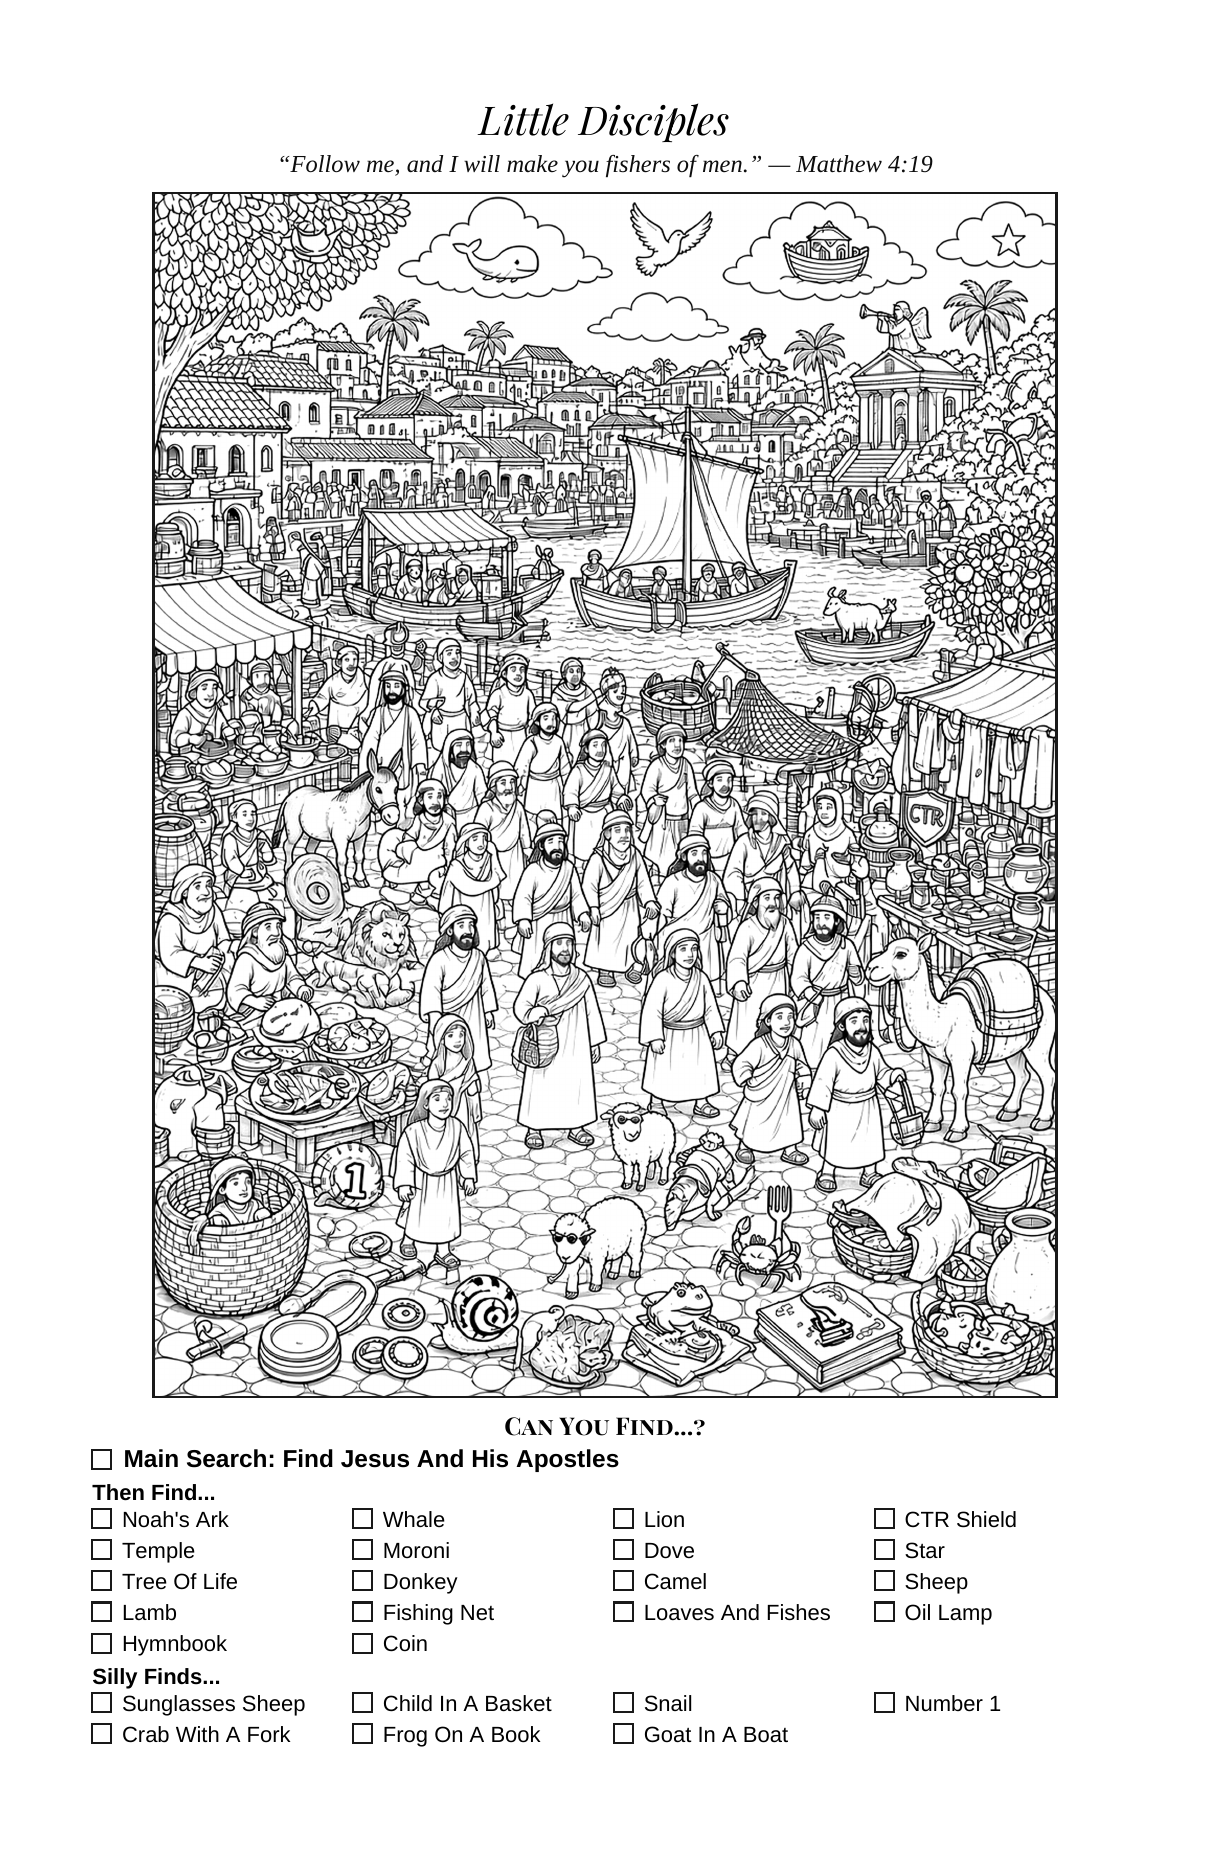
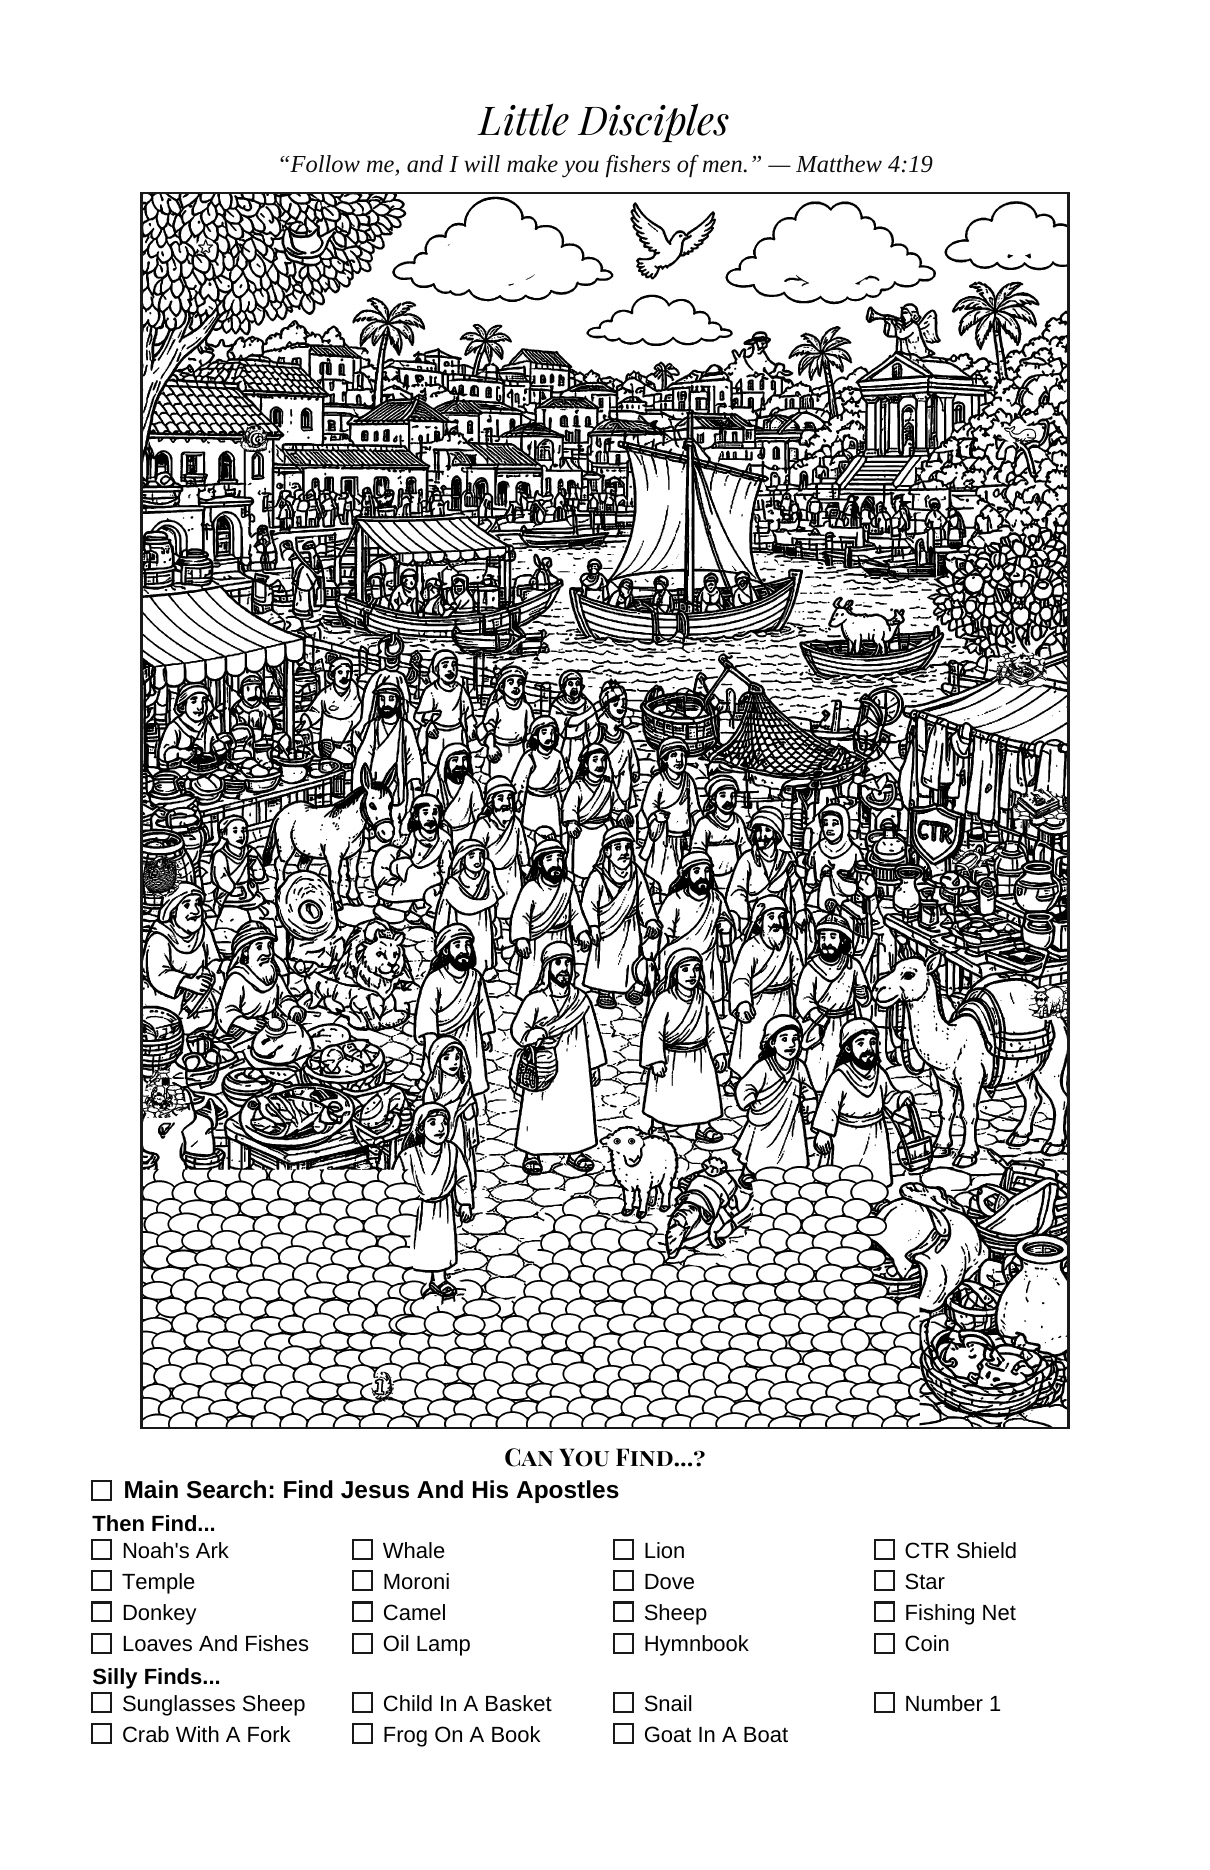
This Sunday: Nov 15 chorister Traci Harward and organist Karen Bitton
Last-minute music change approved by Adam. The program order now includes the hymns and places the Ward Choir number between the speakers. Kids page image refreshed.

diff --git a/this-sunday/index.html b/this-sunday/index.html
@@ -35,8 +35,8 @@ footer{text-align:center;color:var(--soft);font-size:11.5px;padding:8px 20px 36p
 <div class="meta">12:00 PM · Stake Center chapel (Eagle Shore building)</div></header>
 <main>
 <div class="lead"><div><span>Presiding</span><b>Bishop Drommond</b></div><div><span>Conducting</span><b>Bishop Drommond</b></div>
-<div><span>Chorister</span><b></b></div><div><span>Organist</span><b></b></div></div>
-<details open><summary><span>Program<sup class="ast" aria-hidden="true">*</sup></span></summary><div class="in"><p class="upd sec"><span aria-hidden="true">* </span>Updates Saturday evening for Sunday’s sacrament meeting.</p><ol class="order"><li class=""><span class="lab">Invocation</span><span class="val">Tess Peterson</span></li><li class=""><span class="lab">Ward and Stake Business</span></li><li class="div"><span>Administration of the Sacrament</span></li><li class=""><span class="lab">Speaker</span><span class="val">Ashley Rogers</span></li><li class=""><span class="lab">Speaker</span><span class="val">Michael Kennard</span></li><li class=""><span class="lab">Benediction</span><span class="val">Sarah Robinette</span></li></ol><p class="note">Tap a hymn to open it in the Church’s music library.</p></div></details>
+<div><span>Chorister</span><b>Traci Harward</b></div><div><span>Organist</span><b>Karen Bitton</b></div></div>
+<details open><summary><span>Program<sup class="ast" aria-hidden="true">*</sup></span></summary><div class="in"><p class="upd sec"><span aria-hidden="true">* </span>Updates Saturday evening for Sunday’s sacrament meeting.</p><ol class="order"><li class="hy"><span class="lab">Opening Hymn</span><span class="val"><a href="https://www.churchofjesuschrist.org/media/music/songs/let-us-oft-speak-kind-words?lang=eng" rel="noopener"><span class="num">232</span> Let Us Oft Speak Kind Words <span class="ext">♪</span></a></span></li><li class=""><span class="lab">Invocation</span><span class="val">Tess Peterson</span></li><li class=""><span class="lab">Ward and Stake Business</span></li><li class="hy"><span class="lab">Sacrament Hymn</span><span class="val"><a href="https://www.churchofjesuschrist.org/media/music/songs/he-died-the-great-redeemer-died?lang=eng" rel="noopener"><span class="num">192</span> He Died! The Great Redeemer Died <span class="ext">♪</span></a></span></li><li class="div"><span>Administration of the Sacrament</span></li><li class=""><span class="lab">Speaker</span><span class="val">Ashley Rogers</span></li><li class=""><span class="lab">Musical Number</span><span class="val">#140 — Did You Think to Pray? (Ward Choir, Brandon John)</span></li><li class=""><span class="lab">Speaker</span><span class="val">Michael Kennard</span></li><li class="hy"><span class="lab">Closing Hymn</span><span class="val"><a href="https://www.churchofjesuschrist.org/media/music/songs/home-can-be-a-heaven-on-earth?lang=eng" rel="noopener"><span class="num">298</span> Home Can Be a Heaven on Earth <span class="ext">♪</span></a></span></li><li class=""><span class="lab">Benediction</span><span class="val">Sarah Robinette</span></li></ol><p class="note">Tap a hymn to open it in the Church’s music library.</p></div></details>
 <details open><summary><span>Announcements<sup class="ast" aria-hidden="true">*</sup></span></summary><div class="in"><p class="upd sec"><span aria-hidden="true">* </span>Updates Saturday evening for Sunday’s sacrament meeting.</p><ul class="list"><li><span class="when">Sun, Nov 15</span><div><b>Family Search Invitations</b><span>November: log into FamilySearch and see what's new. Monthly ideas at helpgatherisrael.org and the Bay 6 Hub (Temple and Family History section).</span></div><div><b>Ward Choir Practice</b><span>2:15 PM, Chapel; every Sunday through Dec 13. Come sing about Jesus with us!</span></div><div><b>Elder Gilbert Sunday Devotional</b><span>all YSA, 6:00–7:00 PM, Ogden Tabernacle, 2145 Washington Blvd; doors open at 5:00 PM</span></div></li><li><b>Journey Through Bethlehem</b><span class="when">Sat, Dec 5</span><span>Neighborhood Christmas Celebration, Saturday, Dec 5, 10:00–11:30 AM, Stake Center (549 S 1525 W, Farmington). See the flyer on the Bay 6 Hub for details.</span></li><li><b>Stake Mission Prep</b><span class="when">Sundays</span><span>3:45–4:45 PM, Stake Center, sophomores–seniors</span></li><li><b>Central Davis Jr. SNAP (Special Needs Activity Program)</b><span class="when">Mondays</span><span>4:30–5:45 pm when school is in session, 1282 West 1875 North, Farmington</span></li><li><b>Centerville Employment Resource Center</b><span class="when">Wednesdays</span><span>now open Wednesday evenings until 7 pm</span></li></ul><a class="btn" href="../events/">See all Upcoming Events</a></div></details>
 <details open><summary><span>Little Disciples<sup class="ast" aria-hidden="true">*</sup></span></summary><div class="in"><p class="upd sec"><span aria-hidden="true">* </span>Updates Saturday evening for Sunday’s sacrament meeting.</p><p class="note">A page for children. Think about Jesus as you solve each puzzle.</p>
 <ol class='steps'><li>With your family, tell the story of Shadrach, Meshach, and Abed-nego in the fiery furnace, or of Daniel in the lions’ den. How did Jesus help them do what is right when it was hard? (Daniel 3; 6)</li><li>Daniel prayed three times a day, even when it was against the law (Daniel 6:10). Draw a picture of yourself praying, and tell your family why prayer helps you follow Jesus Christ.</li></ol>

diff --git a/index.html b/index.html
@@ -156,7 +156,7 @@
 </header>
 <main>
   <!--TS--><a class="ts" href="this-sunday/"><svg class="badge" viewBox="0 0 120 120" role="img" aria-label="The Christus"><circle cx="60" cy="60" r="57" fill="#005175"/><circle cx="60" cy="60" r="51" fill="none" stroke="#c9a24a" stroke-width="2"/><path d="M73.97 103.37 L47.82 103.36 L49.09 101.64 L49.61 100.06 L49.83 97.91 L49.54 95.33 L49.83 91.46 L49.65 88.74 L50.35 81.71 L49.85 79.56 L50.72 77.13 L50.49 73.11 L50.04 72.63 L48.32 72.32 L46.76 71.54 L45.55 70.39 L44.30 68.61 L43.07 65.95 L42.34 63.65 L41.82 61.07 L41.52 57.49 L41.15 56.87 L40.44 56.95 L36.85 59.56 L33.84 60.32 L31.40 61.57 L30.83 61.47 L30.49 61.07 L30.40 59.27 L29.25 59.03 L29.25 58.49 L31.99 56.63 L32.55 55.33 L33.27 55.16 L36.85 55.25 L37.48 54.77 L38.66 53.19 L40.00 50.70 L42.45 47.03 L46.74 37.03 L47.75 35.09 L49.71 32.26 L52.86 30.11 L54.40 28.11 L54.88 26.82 L55.15 23.66 L56.01 20.22 L56.92 18.82 L58.56 17.50 L62.09 17.50 L63.56 18.65 L64.23 19.46 L64.99 21.37 L65.87 25.96 L66.38 27.61 L67.95 29.55 L70.55 31.40 L72.50 33.70 L74.69 39.01 L79.97 48.75 L82.05 53.76 L83.00 54.38 L85.01 54.36 L87.02 54.71 L89.45 56.18 L90.60 57.17 L90.60 58.06 L90.17 58.49 L89.88 59.50 L88.74 60.22 L88.17 60.20 L86.73 59.37 L85.59 59.05 L82.72 58.60 L82.29 58.76 L82.10 59.07 L82.64 71.11 L82.49 72.83 L81.91 74.98 L81.80 77.41 L82.37 88.59 L82.22 93.18 L81.72 94.19 L81.14 94.41 L80.57 94.27 L78.90 92.89 L78.24 91.03 L77.87 90.60 L75.41 89.56 L72.69 87.90 L72.25 87.84 L71.83 88.11 L71.58 88.74 L71.47 90.17 L71.82 98.48 L72.38 100.78 L73.89 102.93 L73.97 103.37Z" fill="#f3d98b" fill-rule="evenodd" stroke="#f3d98b" stroke-width="0.6" stroke-linejoin="round"/></svg><span class="ts-k"><span class="ts-label">This Sunday</span><span class="ast" aria-hidden="true">*</span></span><b>Sun, Nov 15 · Sacrament Meeting</b><small>12:00 PM · Program, Hymns, Announcements and Little Disciples</small><em class="ts-upd"><span aria-hidden="true">* </span><span class="ts-note">Updates Saturday evening for Sunday’s sacrament meeting.</span></em><span class="ts-go">›</span></a><!--/TS-->
-    <script>
+      <script>
 (function () {
   var label = document.querySelector(".ts-label");
   var note = document.querySelector(".ts-note");

diff --git a/tools/build_this_sunday.py b/tools/build_this_sunday.py
@@ -36,12 +36,15 @@ row('Ward and Stake Business','')
 h,u=hymn(C.get('sacrament_hymn')); row('Sacrament Hymn',h,u,'hy')
 for it in d.get('program',[]):
     if it[0]=='divider': rows.append(f'<li class="div"><span>{E(it[1])}</span></li>')
+    elif it[0]=='special' and C.get('special'):
+        row('Musical Number',E(C['special']))
     elif it[0]=='row':
         lab=it[1]; val=it[2] if len(it)>2 else ''
         if 'hymn' in lab.lower(): h,u=hymn(val); row(lab,h,u,'hy')
         else: row(lab,E(val))
 if fast and not d.get('program'): rows.append('<li class="div"><span>Bearing of Testimonies</span></li>')
-if C.get('special'): row('Musical Number',E(C['special']))
+if C.get('special') and not any(it[0]=='special' for it in d.get('program',[])):
+    row('Musical Number',E(C['special']))
 h,u=hymn(C.get('closing_hymn')); row('Closing Hymn',h,u,'hy')
 row('Benediction',E(A.get('benediction','')))
 rows=[r for r in rows if '<span class="val"></span>' not in r or 'Business' in r]
